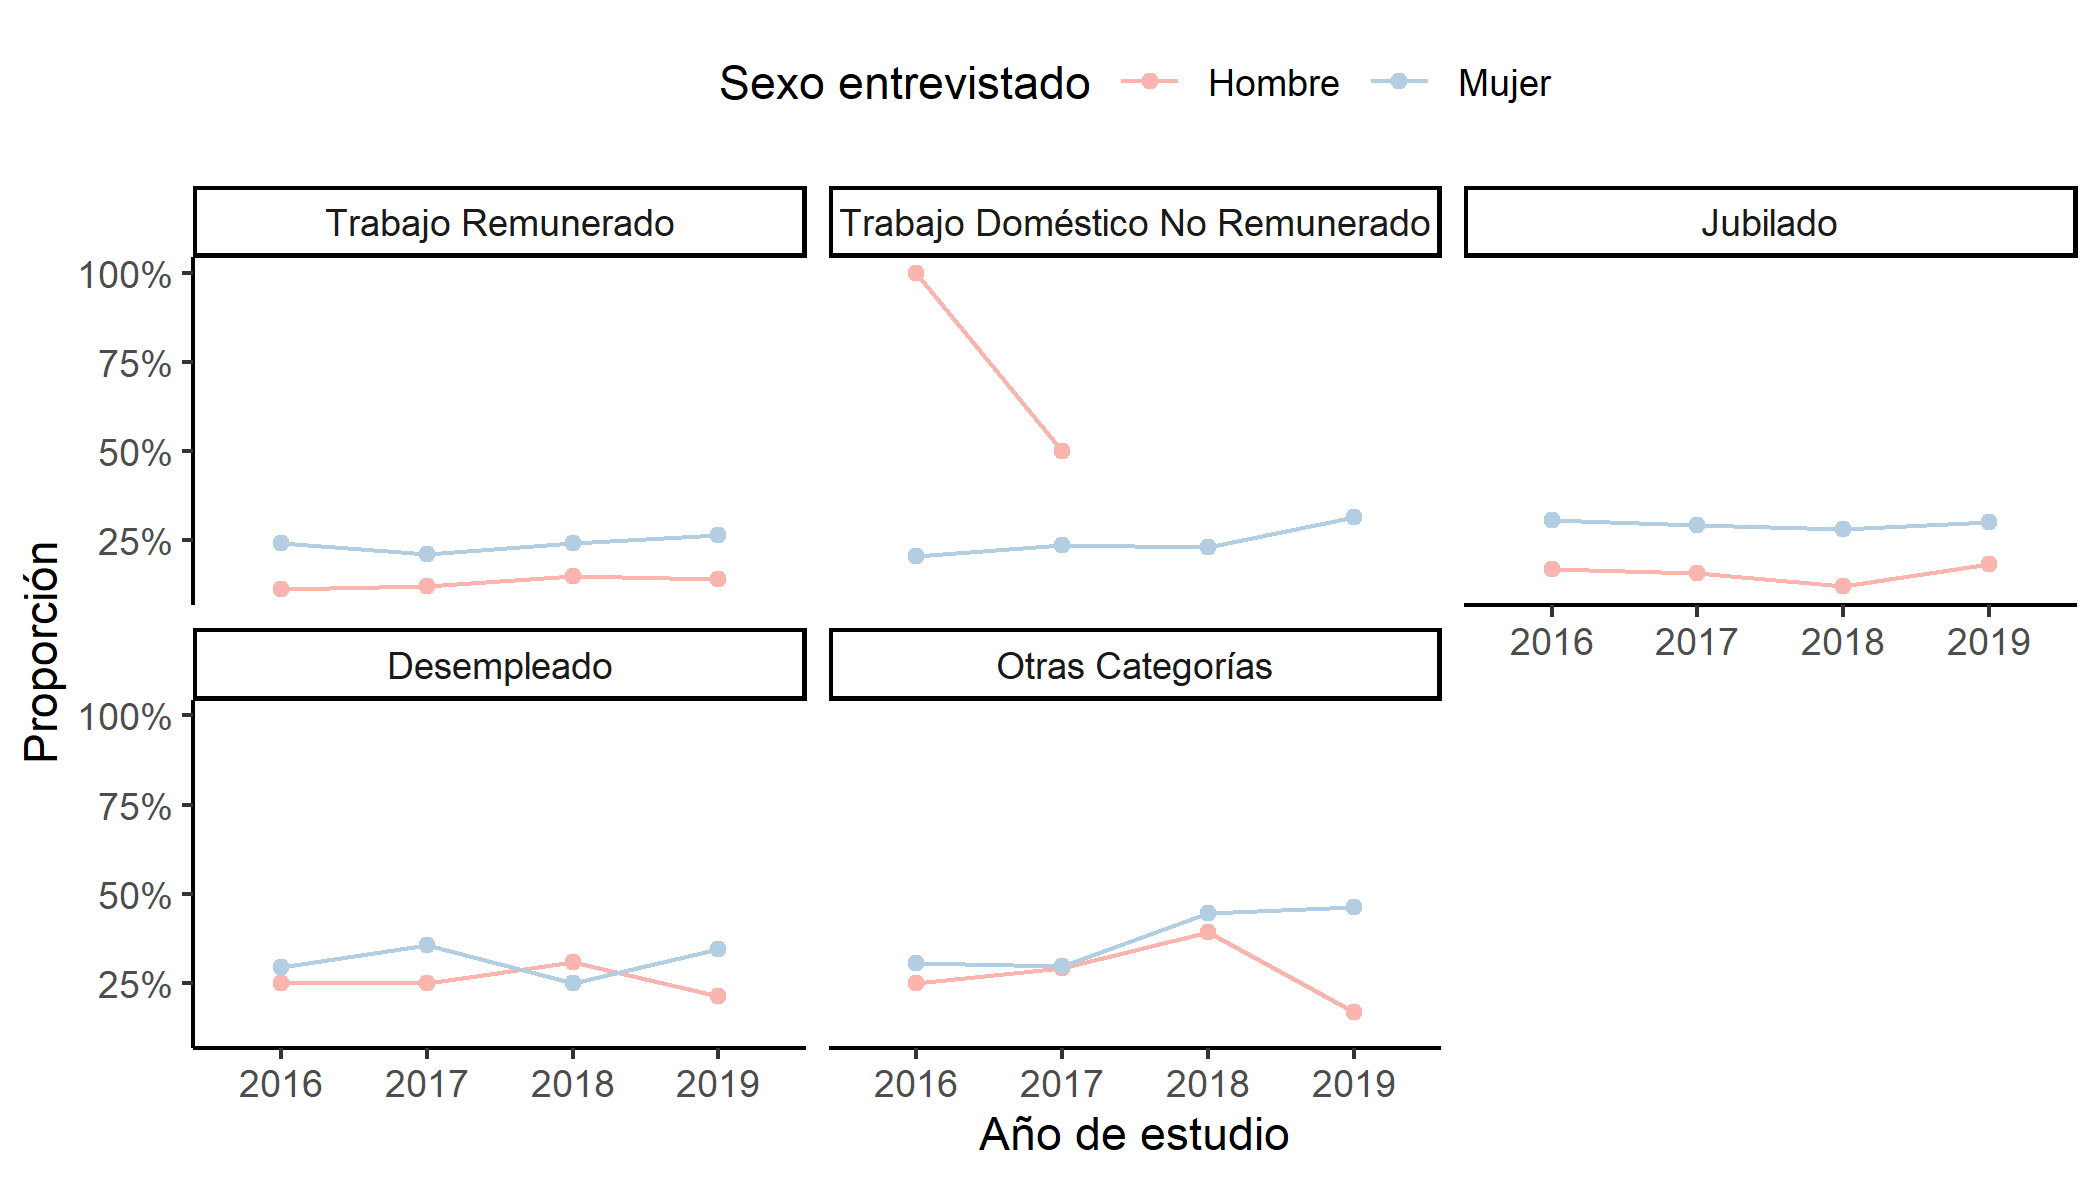
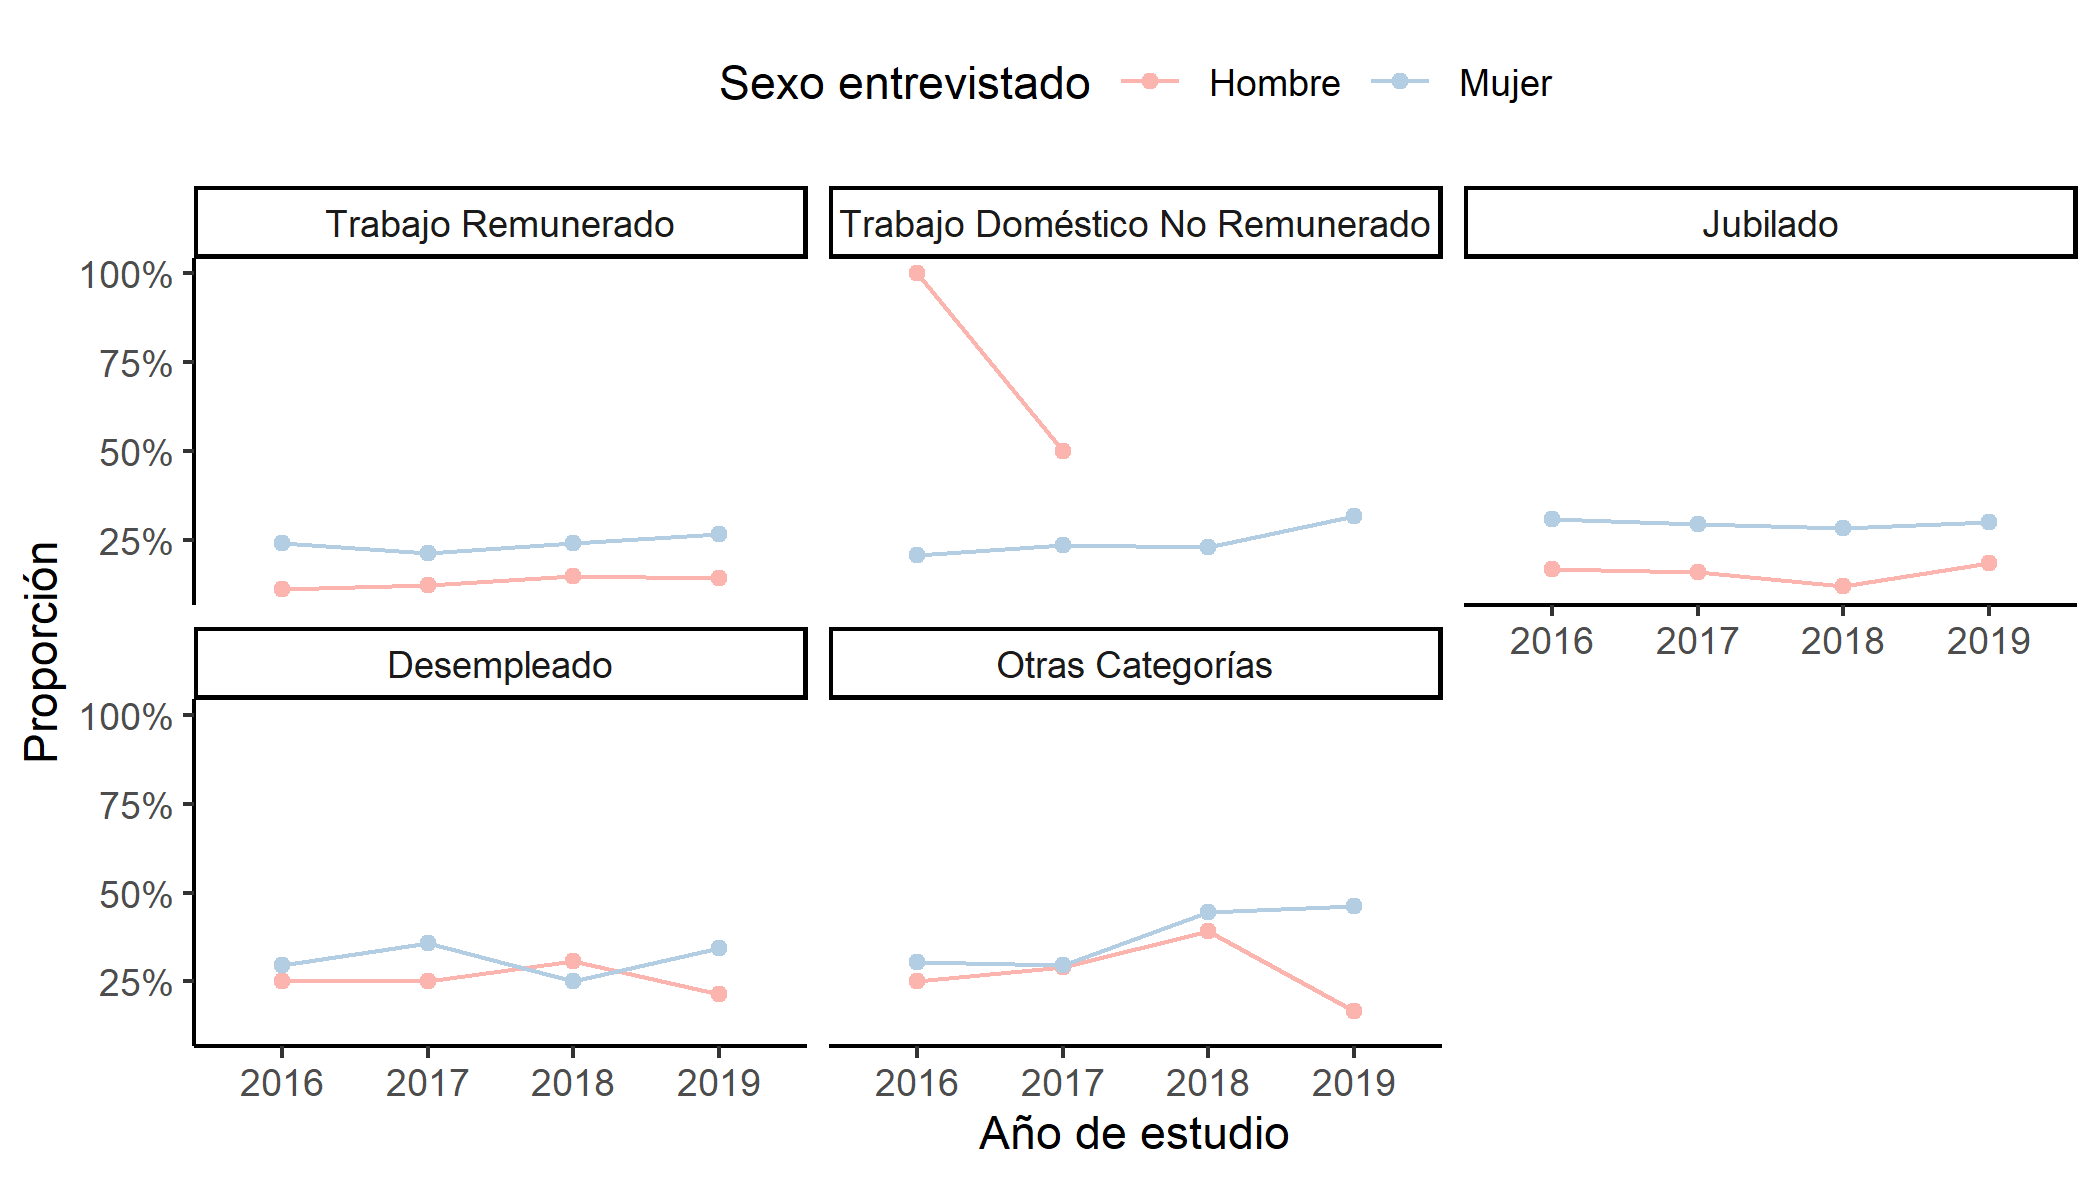
Cuerpo presentación

diff --git a/presentacion_pre_alas.html b/presentacion_pre_alas.html
@@ -32,21 +32,24 @@ class: center, middle, inverse, title-slide
 # Presentación Personal
 
 * Proyecto de Magíster Estadística
-* Datos
-* Estado actual
-* Presentación de hoy: *Análisis exploratorio, primeros resultados de modelos sobre la sintomatollogía depresiva en el estudio ELSOC*
+* Estado actual de la investigación
+* **Motivación de la investigación ** *¿De qué manera inciden los distintos contextos en que se desenvuelven las personas en las diferentes trayectorias de la sintomatología depresiva?*
+* **Presentación de hoy**: *Análisis exploratorio de los datos, primeros análisis de modelamiento sobre  la sintomatología depresiva en el estudio ELSOC*.
 
 ---
-# Motivación I
-* Estimación OMS
-* Licencias Médicas
-* Depresión significa una alta carga, financiera, sufrimiento y la discapacidad que genera en ambientes, laborales, educacionales y         cotidianos.
-* Podemos pensar la sintomatología depresiva como un indicador del estrés sicosocial que afecta a una comunidad en un momento determinado. 
+# Motivación I: ¿Por qué investigar sobre Depresión? 
+* *ENS 2017:* Prevalencia Depresión en el país de 6.2% (Hombres 2.1 % y Mujeres 10.2%).
+* *OPS 2018:* En Chile los trastornos comunes como ansiedad, depresión y autolesiones representan el 50% de la carga de enfermedad en los jóvenes y adultos. 
+* *Vicente et. al 2016:* Depresión mayor ocupa el primer lugar en la discapacidad atribuida en adultos, y es la principal contribuyente a los años vividos con discapacidad.
+* *SIS 2020:* Trastornos mentales es el único grupo diagnóstico que aumenta en el número de licencias tramitadas, en especial las de mediana y larga duración y en el grupo de mujeres entre 35 y 64.
+
 ---
 
-# Motivación II
+# Motivación II: Depresión v/s sintomatología depresiva
 
-* Se hace urgente **caracterizar** las distintas maneras que hay de experimentar la sintomatología depresiva. No sólo entre grupos de personas, sino dentro de la misma persona en distintas 
+* La depresión representa una alta carga en términos financieros, la discapacidad y el sufrimiento que genera.
+* *Jimenez et. al 2020:* La **sintomatología depresiva** nos da un indicio del estrés sicosocial que afecta a una comunidad en un momento determinado. 
+* Se hace urgente **caracterizar** las distintas maneras que hay de experimentar la sintomatología depresiva. No sólo entre grupos de personas, *sino dentro de la misma persona en distintos puntos del tiempo.* 
 
 ---
 
@@ -56,7 +59,7 @@ class: center, middle, inverse, title-slide
 
 * Es un proyecto del Centro de Estudios de Conflicto y Cohesión Social (COES)
 * Aplicado desde el 2016 hasta hoy &lt;sup&gt;1&lt;/sup&gt; .
-* Incluye varios módulos
+* Se coompone de siete Módulos (*Salud y Bienestar*).
 * Cerca de 3000 observaciones y más de 200  variables
 
 ]
@@ -74,8 +77,7 @@ class: center, middle, inverse, title-slide
 # Sobre la escala Patient Health Questionnaire 9
 
 * Diseñada para ser una medida de severidad y detección de la sintomatología depresiva depresiva de un paciente.
-* Mide la persistencia en dos semanas de 9 items
-* Los ítems reflejan los síntomas del DSM-IV
+* Mide la persistencia en las últimas dos  semanas de 9 items que reflejan los síntomas del DSM-IV.
 * Puede modelarse ocupando la *escala completa*, puntajes  *mayores o iguales a 10*, o *cuatro categorías de severidad* (Depresión Mínima, Depresión Media, Depresión Moderada, Depresión Severa)
 
 ---
@@ -86,7 +88,7 @@ class: center, middle, inverse, title-slide
 
 ### Sobre los ítems de la escala PHQ-9 I
 
-&lt;img src="presentacion_pre_alas_files/figure-html/unnamed-chunk-18-1.png" width="95%" style="display: block; margin: auto;" /&gt;
+&lt;img src="presentacion_pre_alas_files/figure-html/unnamed-chunk-1-1.png" width="95%" style="display: block; margin: auto;" /&gt;
 
 Los tres primeros items son (1) *Poco interés o placer en hacer las cosas*, (2) *Se ha sentido decaído(a), deprimido(a),o sin esperanzas*, y (3) *Dificultad para dormir o permanecer dormido(a), o ha dormido demasiado*.
 
@@ -94,7 +96,7 @@ Los tres primeros items son (1) *Poco interés o placer en hacer las cosas*, (2)
 
 ### Sobre los ítems de la escala PHQ-9 II
 
-&lt;img src="presentacion_pre_alas_files/figure-html/unnamed-chunk-19-1.png" width="95%" style="display: block; margin: auto;" /&gt;
+&lt;img src="presentacion_pre_alas_files/figure-html/unnamed-chunk-2-1.png" width="95%" style="display: block; margin: auto;" /&gt;
 
 Los items del cuarto al sexto son (4) *Se ha sentido cansado(a) o con poca energía*, (5) *Con poco apetito o ha comido en exceso*, y (6) *Se ha sentido mal con usted mismo(a)- o que es un fracaso o que ha quedado mal con usted mismo(a) o con su familia*.
 
@@ -102,7 +104,7 @@ Los items del cuarto al sexto son (4) *Se ha sentido cansado(a) o con poca energ
 
 ### Sobre los ítems de la escala PHQ-9 III
 
-&lt;img src="presentacion_pre_alas_files/figure-html/unnamed-chunk-20-1.png" width="95%" style="display: block; margin: auto;" /&gt;
+&lt;img src="presentacion_pre_alas_files/figure-html/unnamed-chunk-3-1.png" width="95%" style="display: block; margin: auto;" /&gt;
 
 Los últimos tres items de la escala son (7) *Ha tenido dificultad para concentrarse en cosas tales como leer el periódico o ver televisión* y (8) *¿Se ha estado moviendo o hablando tan lento que otras personas podrían notarlo?, o por el contrario- ha estado tan inquieto(a) o agitado(a), que se ha estado moviendo mucho más de lo normal* y finalmente (9) *Ha pensado que estaría mejor muerto(a) o se le ha ocurrido lastimarse de alguna manera*. 
 
@@ -110,7 +112,7 @@ Los últimos tres items de la escala son (7) *Ha tenido dificultad para concentr
 
 # Puntajes PHQ-9 globales
 
-&lt;img src="presentacion_pre_alas_files/figure-html/unnamed-chunk-21-1.png" width="95%" style="display: block; margin: auto;" /&gt;
+&lt;img src="presentacion_pre_alas_files/figure-html/unnamed-chunk-4-1.png" width="95%" style="display: block; margin: auto;" /&gt;
 
 ---
 
@@ -129,7 +131,7 @@ Nos centraremos en tres aspectos principales:
 
 ### Según Género del entrevistado
 
-&lt;img src="presentacion_pre_alas_files/figure-html/unnamed-chunk-22-1.png" width="95%" style="display: block; margin: auto;" /&gt;
+&lt;img src="presentacion_pre_alas_files/figure-html/unnamed-chunk-5-1.png" width="95%" style="display: block; margin: auto;" /&gt;
 
 
 
@@ -137,13 +139,13 @@ Nos centraremos en tres aspectos principales:
 
 ### Según actividad ocupacional del entrevistado
 
-&lt;img src="presentacion_pre_alas_files/figure-html/unnamed-chunk-23-1.png" width="95%" style="display: block; margin: auto;" /&gt;
+&lt;img src="presentacion_pre_alas_files/figure-html/unnamed-chunk-6-1.png" width="95%" style="display: block; margin: auto;" /&gt;
 
 ---
 
 ### Interacción con género
 
-&lt;img src="presentacion_pre_alas_files/figure-html/unnamed-chunk-24-1.png" width="95%" style="display: block; margin: auto;" /&gt;
+&lt;img src="presentacion_pre_alas_files/figure-html/unnamed-chunk-7-1.png" width="95%" style="display: block; margin: auto;" /&gt;
 
 Acá se muestra la proporción de personas con puntajes mayores o iguales a 10 (Referencia, mejor sensitividad para detectar )
 
@@ -151,32 +153,32 @@ Acá se muestra la proporción de personas con puntajes mayores o iguales a 10 (
 
 ### Según nivel educacional
 
-&lt;img src="presentacion_pre_alas_files/figure-html/unnamed-chunk-25-1.png" width="95%" style="display: block; margin: auto;" /&gt;
+&lt;img src="presentacion_pre_alas_files/figure-html/unnamed-chunk-8-1.png" width="95%" style="display: block; margin: auto;" /&gt;
 
 
 ---
 
 ### Según tramo etario del entrevistado
 
-&lt;img src="presentacion_pre_alas_files/figure-html/unnamed-chunk-26-1.png" width="95%" style="display: block; margin: auto;" /&gt;
+&lt;img src="presentacion_pre_alas_files/figure-html/unnamed-chunk-9-1.png" width="95%" style="display: block; margin: auto;" /&gt;
 
 ---
 
 ### Según Tramo IMC del entrevistado
 
-&lt;img src="presentacion_pre_alas_files/figure-html/unnamed-chunk-27-1.png" width="95%" style="display: block; margin: auto;" /&gt;
+&lt;img src="presentacion_pre_alas_files/figure-html/unnamed-chunk-10-1.png" width="95%" style="display: block; margin: auto;" /&gt;
 
 ---
 
 ### Según frecuencia de actividad física del entrevistado
 
-&lt;img src="presentacion_pre_alas_files/figure-html/unnamed-chunk-28-1.png" width="95%" style="display: block; margin: auto;" /&gt;
+&lt;img src="presentacion_pre_alas_files/figure-html/unnamed-chunk-11-1.png" width="95%" style="display: block; margin: auto;" /&gt;
 
 ---
 
 ### Según frecuencia para hablar de problemas con familiares o amigos
 
-&lt;img src="presentacion_pre_alas_files/figure-html/unnamed-chunk-29-1.png" width="95%" style="display: block; margin: auto;" /&gt;
+&lt;img src="presentacion_pre_alas_files/figure-html/unnamed-chunk-12-1.png" width="95%" style="display: block; margin: auto;" /&gt;
 
 ---
 
@@ -195,7 +197,7 @@ Acá se muestra la proporción de personas con puntajes mayores o iguales a 10 (
 
 
 
-&lt;img src="presentacion_pre_alas_files/figure-html/unnamed-chunk-32-1.png" width="95%" style="display: block; margin: auto;" /&gt;
+&lt;img src="presentacion_pre_alas_files/figure-html/unnamed-chunk-15-1.png" width="95%" style="display: block; margin: auto;" /&gt;
 
 ---
 
@@ -203,7 +205,11 @@ Acá se muestra la proporción de personas con puntajes mayores o iguales a 10 (
 
 
 
-&lt;img src="presentacion_pre_alas_files/figure-html/unnamed-chunk-34-1.png" width="95%" style="display: block; margin: auto;" /&gt;
+&lt;img src="presentacion_pre_alas_files/figure-html/unnamed-chunk-17-1.png" width="95%" style="display: block; margin: auto;" /&gt;
+
+---
+
+# Interacciones de las variables y el tiempo
 
 ---
 
